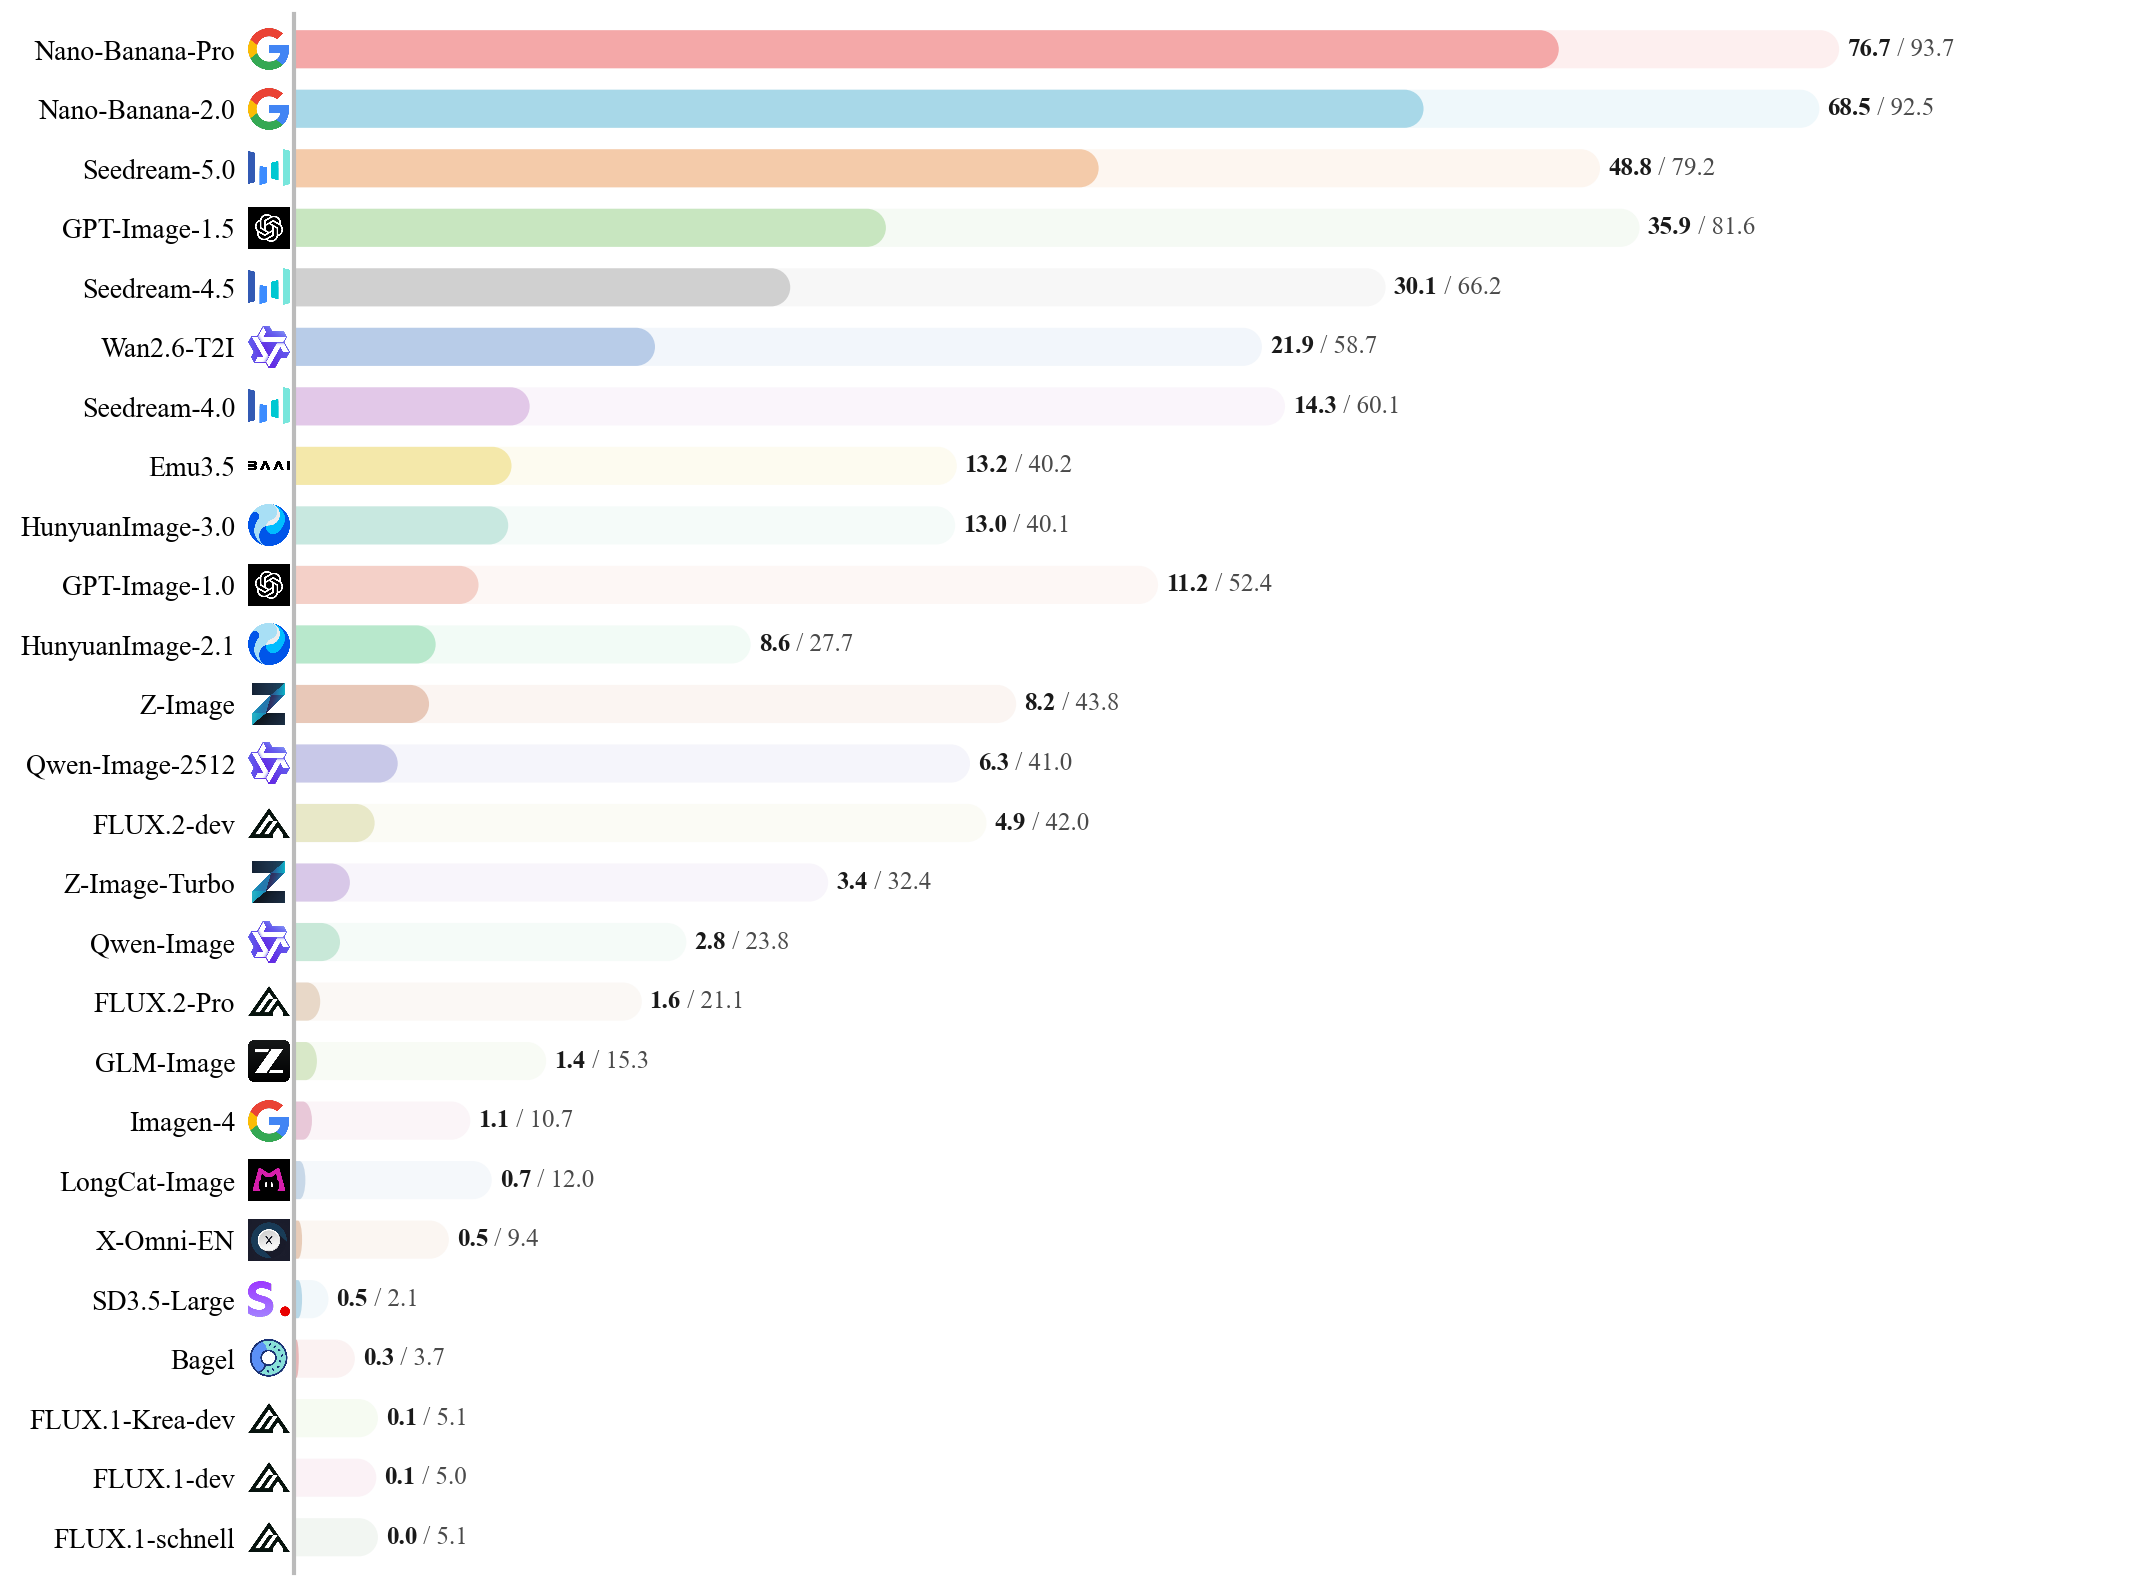
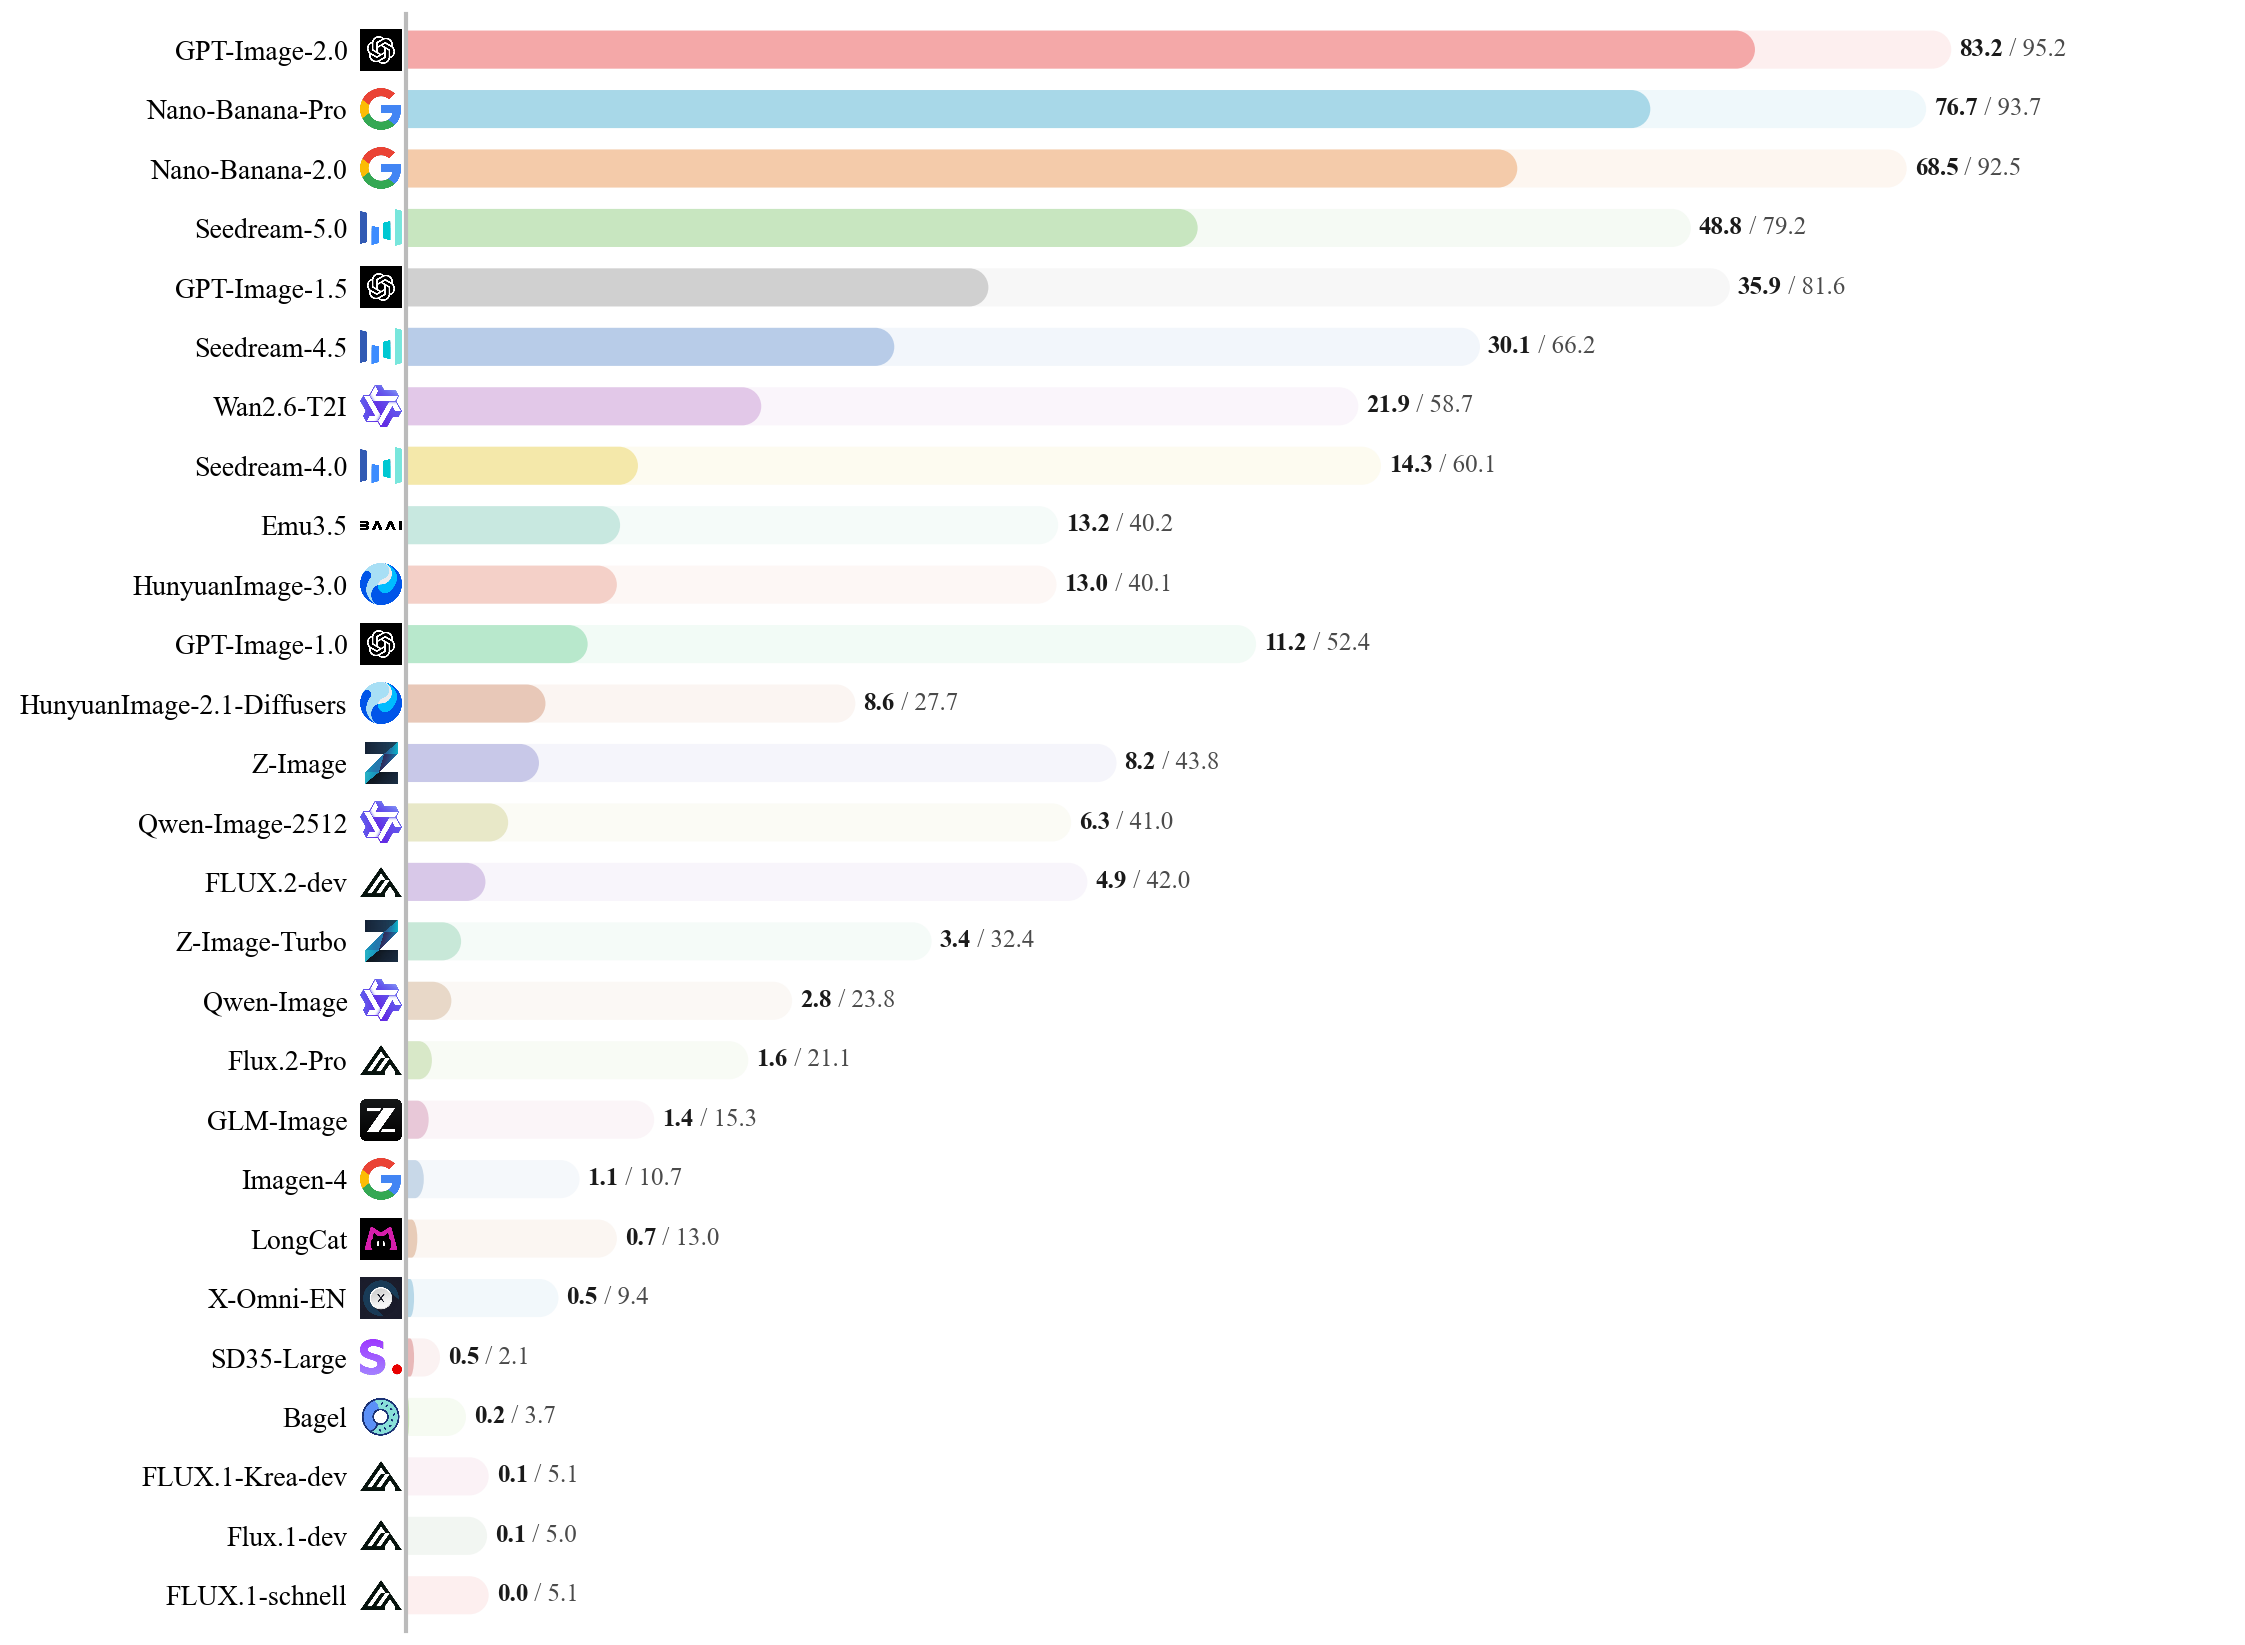
update gpt-image-2 results

diff --git a/docs/index.html b/docs/index.html
@@ -539,6 +539,7 @@ const LB_DATA = {
     'lb-overall': {
       title: 'Overall', footer: 'Performance ranking — <strong>Overall</strong>. Scores come from the Average column in Table 1.',
       models: [
+        {name:'GPT-Image-2.0',logo:'gpt_image_1_5.png',hard:83.2,easy:95.3},
         {name:'Nano-Banana-Pro',logo:'dmx_nano_banana_pro.png',hard:76.7,easy:93.7},
         {name:'Nano-Banana-2.0',logo:'dmx_nano_banana_2.png',hard:68.5,easy:92.5},
         {name:'Seedream-5.0',logo:'seedream_50.png',hard:48.8,easy:79.2},
@@ -570,6 +571,7 @@ const LB_DATA = {
     'lb-webpage': {
       title: 'Webpage', footer: 'Performance ranking — <strong>Webpage</strong>. Models sorted by Hard subset score (descending).',
       models: [
+        {name:'GPT-Image-2.0',logo:'gpt_image_1_5.png',hard:85.0,easy:96.3},
         {name:'Nano-Banana-Pro',logo:'dmx_nano_banana_pro.png',hard:77.5,easy:96.5},
         {name:'Nano-Banana-2.0',logo:'dmx_nano_banana_2.png',hard:71.2,easy:94.5},
         {name:'Seedream-5.0',logo:'seedream_50.png',hard:47.0,easy:80.8},
@@ -601,6 +603,7 @@ const LB_DATA = {
     'lb-slides': {
       title: 'Slides', footer: 'Performance ranking — <strong>Slides</strong>. Models sorted by Hard subset score (descending).',
       models: [
+        {name:'GPT-Image-2.0',logo:'gpt_image_1_5.png',hard:84.0,easy:95.0},
         {name:'Nano-Banana-Pro',logo:'dmx_nano_banana_pro.png',hard:82.2,easy:94.8},
         {name:'Nano-Banana-2.0',logo:'dmx_nano_banana_2.png',hard:73.8,easy:95.8},
         {name:'Seedream-5.0',logo:'seedream_50.png',hard:54.5,easy:80.8},
@@ -632,6 +635,7 @@ const LB_DATA = {
     'lb-chart': {
       title: 'Chart', footer: 'Performance ranking — <strong>Chart</strong>. One of the hardest domains due to precise numerical rendering requirements.',
       models: [
+        {name:'GPT-Image-2.0',logo:'gpt_image_1_5.png',hard:80.8,easy:95.3},
         {name:'Nano-Banana-Pro',logo:'dmx_nano_banana_pro.png',hard:73.0,easy:92.2},
         {name:'Nano-Banana-2.0',logo:'dmx_nano_banana_2.png',hard:60.2,easy:89.2},
         {name:'Seedream-5.0',logo:'seedream_50.png',hard:46.0,easy:76.2},
@@ -663,6 +667,7 @@ const LB_DATA = {
     'lb-poster': {
       title: 'Poster', footer: 'Performance ranking — <strong>Poster</strong>. Models sorted by Hard subset score (descending).',
       models: [
+        {name:'GPT-Image-2.0',logo:'gpt_image_1_5.png',hard:83.0,easy:94.3},
         {name:'Nano-Banana-Pro',logo:'dmx_nano_banana_pro.png',hard:76.5,easy:94.8},
         {name:'Nano-Banana-2.0',logo:'dmx_nano_banana_2.png',hard:67.5,easy:91.2},
         {name:'Seedream-5.0',logo:'seedream_50.png',hard:50.7,easy:77.0},
@@ -694,6 +699,7 @@ const LB_DATA = {
     'lb-sci': {
       title: 'Scientific Figure', footer: 'Performance ranking — <strong>Scientific Figure</strong>. Most open-source models score near zero on the Hard subset.',
       models: [
+        {name:'GPT-Image-2.0',logo:'gpt_image_1_5.png',hard:83.0,easy:95.5},
         {name:'Nano-Banana-Pro',logo:'dmx_nano_banana_pro.png',hard:74.2,easy:90.0},
         {name:'Nano-Banana-2.0',logo:'dmx_nano_banana_2.png',hard:69.5,easy:92.0},
         {name:'Seedream-5.0',logo:'seedream_50.png',hard:45.8,easy:81.5},
@@ -725,6 +731,7 @@ const LB_DATA = {
     'lb-layout': {
       title: 'Layout Control', footer: 'Capability ladder — <strong>Layout Control</strong>. Models sorted by Hard subset score (descending).',
       models: [
+        {name:'GPT-Image-2.0',logo:'gpt_image_1_5.png',hard:85.0,easy:97.4},
         {name:'Nano-Banana-Pro',logo:'dmx_nano_banana_pro.png',hard:72.2,easy:91.2},
         {name:'Nano-Banana-2.0',logo:'dmx_nano_banana_2.png',hard:68.4,easy:91.0},
         {name:'Seedream-5.0',logo:'seedream_50.png',hard:67.6,easy:89.0},
@@ -756,6 +763,7 @@ const LB_DATA = {
     'lb-attribute': {
       title: 'Attribute Binding', footer: 'Capability ladder — <strong>Attribute Binding</strong>. Models sorted by Hard subset score (descending).',
       models: [
+        {name:'GPT-Image-2.0',logo:'gpt_image_1_5.png',hard:77.8,easy:93.6},
         {name:'Nano-Banana-Pro',logo:'dmx_nano_banana_pro.png',hard:65.6,easy:92.2},
         {name:'Nano-Banana-2.0',logo:'dmx_nano_banana_2.png',hard:57.4,easy:91.6},
         {name:'Seedream-5.0',logo:'seedream_50.png',hard:42.4,easy:77.2},
@@ -787,6 +795,7 @@ const LB_DATA = {
     'lb-text': {
       title: 'Text Rendering', footer: 'Capability ladder — <strong>Text Rendering</strong>. Models sorted by Hard subset score (descending).',
       models: [
+        {name:'GPT-Image-2.0',logo:'gpt_image_1_5.png',hard:92.2,easy:97.6},
         {name:'Nano-Banana-Pro',logo:'dmx_nano_banana_pro.png',hard:86.4,easy:95.0},
         {name:'Nano-Banana-2.0',logo:'dmx_nano_banana_2.png',hard:83.4,easy:94.6},
         {name:'Seedream-5.0',logo:'seedream_50.png',hard:43.4,easy:75.6},
@@ -819,6 +828,7 @@ const LB_DATA = {
       title: 'Knowledge Reasoning', footer: 'Capability ladder — <strong>Knowledge-based Reasoning</strong>. Models sorted by Hard subset score (descending).',
       models: [
         {name:'Nano-Banana-Pro',logo:'dmx_nano_banana_pro.png',hard:82.6,easy:96.2},
+        {name:'GPT-Image-2.0',logo:'gpt_image_1_5.png',hard:77.6,easy:92.4},
         {name:'Nano-Banana-2.0',logo:'dmx_nano_banana_2.png',hard:64.6,easy:93.0},
         {name:'Seedream-5.0',logo:'seedream_50.png',hard:41.8,easy:75.2},
         {name:'GPT-Image-1.5',logo:'gpt_image_1_5.png',hard:26.0,easy:83.6},

diff --git a/README.md b/README.md
@@ -20,6 +20,12 @@
 
 ---
 
+## ✨ Latest Updates
+
+📆 [**2026-04-25**]: We have updated the results of **GPT-Image-2**.
+
+📆 [**2026-03-26**]: The paper, benchmark, leaderboard and evaluation code have been released!
+
 ## Overview
 
 **BizGenEval** is a systematic benchmark for evaluating image generation models on real-world commercial design tasks. Unlike benchmarks focused on natural-image synthesis, it targets structured scenarios characterized by dense text, precise layouts, multiple visual elements, and strict semantic constraints.
@@ -35,7 +41,7 @@ It covers **5 document types** (slides, charts, webpages, posters, scientific fi
 
 ## Main Results
 
-We benchmarked **26 state-of-the-art models**, including leading commercial APIs and open-source models, to understand how current systems handle structured design tasks. 
+We benchmarked **27 state-of-the-art models**, including leading commercial APIs and open-source models, to understand how current systems handle structured design tasks. 
 
 <p align="center">
   <img src="docs/images/overall_hard_easy_ranking.png" alt="Overall hard and easy ranking" width="100%">
